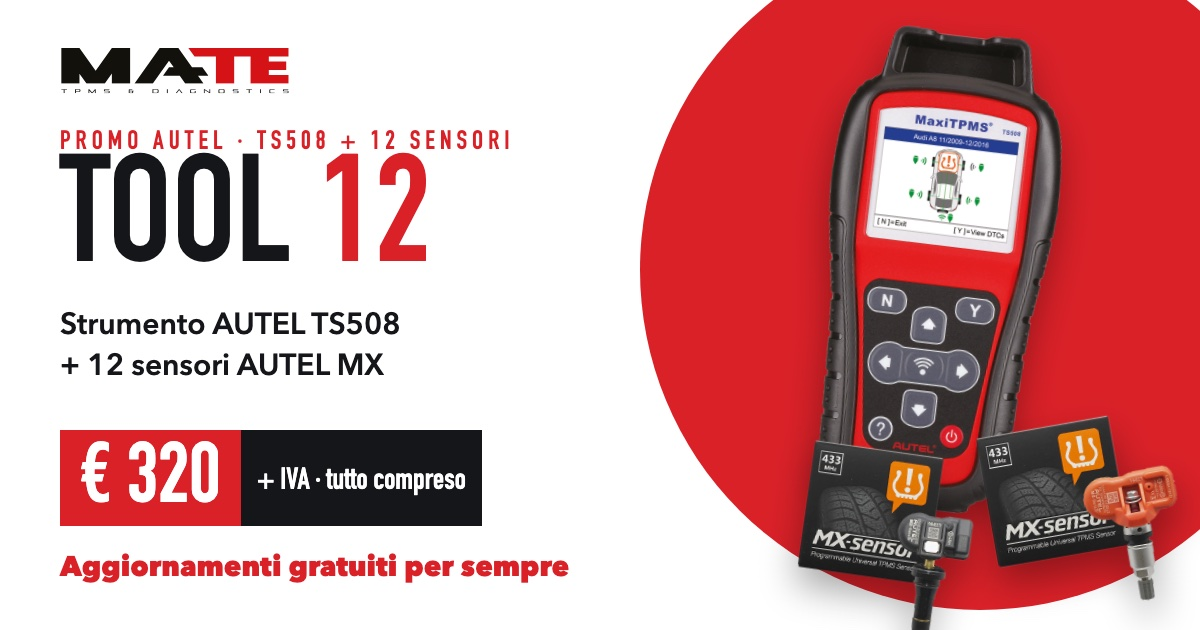
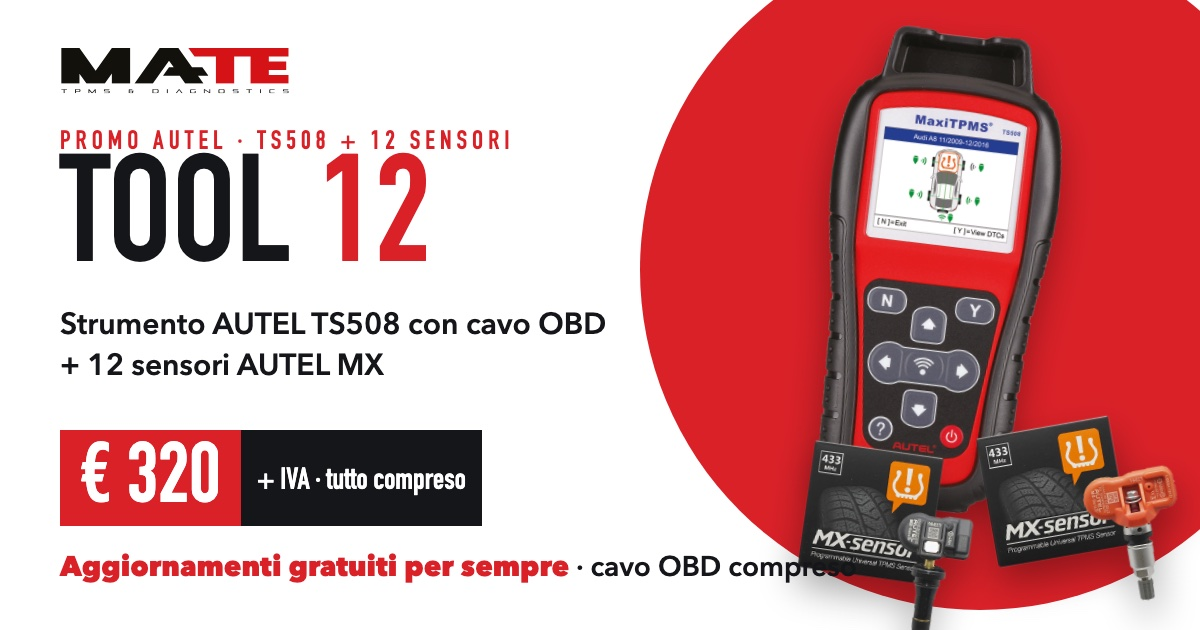
Autel Tool 12: cavo OBD compreso

Changed region(s): [[0.4933, 0.8746, 0.7092, 0.9349], [0.3392, 0.4825, 0.5242, 0.5429]]

diff --git a/autel-tool12/index.html b/autel-tool12/index.html
@@ -4,10 +4,10 @@
 <meta charset="utf-8">
 <meta name="viewport" content="width=device-width, initial-scale=1, viewport-fit=cover">
 <title>Autel Tool 12</title>
-<meta name="description" content="Promo Autel Tool 12: strumento TPMS AUTEL TS508 più 12 sensori AUTEL MX a 320 euro più IVA, tutto compreso, aggiornamenti gratuiti per sempre. Scegli le valvole e mandami l'ordine su WhatsApp.">
+<meta name="description" content="Promo Autel Tool 12: strumento TPMS AUTEL TS508 con cavo OBD più 12 sensori AUTEL MX a 320 euro più IVA, tutto compreso, aggiornamenti gratuiti per sempre. Scegli le valvole e mandami l'ordine su WhatsApp.">
 <meta property="og:type" content="website">
 <meta property="og:title" content="Autel Tool 12 · TS508 + 12 sensori MX a 320 € + IVA">
-<meta property="og:description" content="Strumento TPMS AUTEL TS508 + 12 sensori AUTEL MX: 320 € + IVA tutto compreso, aggiornamenti gratuiti per sempre. Scegli le valvole e ordina su WhatsApp.">
+<meta property="og:description" content="Strumento TPMS AUTEL TS508 con cavo OBD + 12 sensori AUTEL MX: 320 € + IVA tutto compreso, aggiornamenti gratuiti per sempre. Scegli le valvole e ordina su WhatsApp.">
 <meta property="og:image" content="https://stefanoserafin.github.io/mak-promo/autel-tool12/anteprima.jpg">
 <meta property="og:image:width" content="1200">
 <meta property="og:image:height" content="630">
@@ -177,13 +177,13 @@ footer b{color:var(--ink)}
 <div class="wrap">
 
 <div class="hero">
-  <img src="locandina.jpg" alt="Promo Autel Tool 12: strumento TS508 più 12 sensori AUTEL MX a 320 euro più IVA, tutto compreso" width="1620" height="2025">
+  <img src="locandina.jpg" alt="Promo Autel Tool 12: strumento TS508 con cavo OBD più 12 sensori AUTEL MX a 320 euro più IVA, tutto compreso" width="1620" height="2025">
 </div>
 
 
 <section>
   <div class="unico" id="salto">
-    <div class="sx"><small>Tool 12 · tutto compreso</small><p>Strumento AUTEL TS508<br>+ 12 sensori AUTEL MX</p></div>
+    <div class="sx"><small>Tool 12 · tutto compreso</small><p>Strumento AUTEL TS508<br>+ cavo OBD<br>+ 12 sensori AUTEL MX</p></div>
     <div class="dx"><b>€ 320</b><em>+ IVA</em></div>
   </div>
 </section>
@@ -192,7 +192,8 @@ footer b{color:var(--ink)}
   <h2>Perché <em>conviene</em></h2>
   <p class="sub">Tutto quello che serve per partire con il TPMS, in un solo pacchetto.</p>
   <div class="vant" id="vant">
-    <div class="va"><span class="ic">320</span><div><h3>Tutto in un prezzo</h3><p>Strumento e 12 sensori a <strong>320 € + IVA</strong>: parti con il TPMS senza altre spese.</p></div></div>
+    <div class="va"><span class="ic">320</span><div><h3>Tutto in un prezzo</h3><p>Strumento, cavo OBD e 12 sensori a <strong>320 € + IVA</strong>: parti con il TPMS senza altre spese.</p></div></div>
+    <div class="va"><span class="ic">OBD</span><div><h3>Cavo OBD compreso</h3><p>Per il <strong>riapprendimento dalla presa diagnosi</strong>: con il Tool 12 è già nella confezione.</p></div></div>
     <div class="va"><span class="ic" style="font-size:30px;padding-top:0">∞</span><div><h3>Aggiornamenti gratuiti per sempre</h3><p>Il TS508 riceve le nuove vetture e i nuovi sensori <strong>senza abbonamento e senza rinnovi</strong>, via Wi-Fi o dal computer.</p></div></div>
     <div class="va"><span class="ic">3</span><div><h3>Valvole a scelta</h3><p>Gomma, metallo silver o metallo black: <strong>le mischi come vuoi</strong>, contano i 12 in totale.</p></div></div>
     <div class="va"><span class="ic">96%</span><div><h3>Un sensore, quasi tutte le auto</h3><p>AUTEL MX è <strong>universale</strong>: copertura dichiarata del 96% delle vetture. Lo programmi con il TS508.</p></div></div>
@@ -206,6 +207,7 @@ footer b{color:var(--ink)}
   <p class="sub">Un pacchetto, un prezzo: 320 € + IVA.</p>
   <div class="conto">
     <div class="r"><span>Strumento TPMS AUTEL TS508 WF<small>cod. 9300000309 · aggiornamenti gratuiti per sempre</small></span><span></span><b>1</b></div>
+    <div class="r"><span>Cavo OBD<small>per il riapprendimento dalla presa diagnosi</small></span><span></span><b>1</b></div>
     <div class="r"><span>Sensori AUTEL MX<small>valvole a scelta, anche miste</small></span><span></span><b>12</b></div>
     <div class="r tot"><span><b style="font-size:22px;color:var(--ink)">Tool 12</b><small>tutto compreso, IVA esclusa</small></span><span></span><b>320,00 €</b></div>
   </div>
@@ -234,7 +236,7 @@ footer b{color:var(--ink)}
     </div>
     <div class="barra" id="barra"><i></i></div>
     <div class="stato" id="stato"></div>
-    <div class="totale"><span>Tool 12: TS508<br>e 12 sensori, IVA esclusa</span><b>320,00 €<i>+ IVA</i></b></div>
+    <div class="totale"><span>Tool 12: TS508, cavo OBD<br>e 12 sensori, IVA esclusa</span><b>320,00 €<i>+ IVA</i></b></div>
     <label class="f" for="officina">Officina</label>
     <input type="text" id="officina" placeholder="Nome dell'officina" autocomplete="organization">
   </div>
@@ -244,7 +246,7 @@ footer b{color:var(--ink)}
 <section>
   <h2>Da <em>sapere</em></h2>
   <ul class="sapere">
-    <li>Il TS508 fa il riapprendimento dalla presa OBDII e quello manuale, e ti mostra dove si trova la presa.</li>
+    <li>Il <b>cavo OBD è compreso</b>: il TS508 fa il riapprendimento dalla presa diagnosi e quello manuale, e ti mostra dove si trova la presa.</li>
     <li>Gli aggiornamenti sono <b>gratuiti per sempre</b>: via Wi-Fi o dal computer (anche Mac). Al primo aggiornamento registri lo strumento con la tua email.</li>
     <li>Lavora con i sensori a 315 e 433 MHz.</li>
   </ul>
@@ -319,8 +321,8 @@ document.addEventListener("DOMContentLoaded", () => {
   function messaggio() {
     const n = totale(), off = $("officina").value.trim();
     const righeS = SENSORI.map((s, i) => pz[i] ? "• " + s.cod + " AUTEL MX " + s.nome + ": " + pz[i] + " pz" : "").filter(Boolean);
-    const testo = "Ciao Stefano, vorrei l'*Autel Tool 12*: TS508 + 12 sensori AUTEL MX a 320 € + IVA\n" +
-      "• 9300000309 AUTEL TS508 WF: 1 pz\n" +
+    const testo = "Ciao Stefano, vorrei l'*Autel Tool 12*: TS508 con cavo OBD + 12 sensori AUTEL MX a 320 € + IVA\n" +
+      "• 9300000309 AUTEL TS508 WF con cavo OBD: 1 pz\n" +
       (righeS.length ? righeS.join("\n") + "\n" : "") +
       (n < PROMO.sensori ? (n ? "Gli altri " + (PROMO.sensori - n) + " sensori: decidiamo insieme le valvole\n" : "Valvole dei 12 sensori: decidiamo insieme\n") : "") +
       "Totale 320,00 € + IVA\n\nOfficina: " + off;

diff --git a/_build/anteprima-autel-tool12.html b/_build/anteprima-autel-tool12.html
@@ -24,7 +24,7 @@
 <img class="k" src="../../Locandine/autel-tool12/mx-silver.png" style="right:20px;top:420px;width:190px;transform:rotate(-10deg)">
 <img class="k" src="../../Locandine/autel-tool12/mx-rubber.png" style="right:230px;top:450px;width:170px;transform:rotate(8deg)">
 <img class="logo" src="../autel-tool12/logo-mate-nero.svg">
-<div class="txt"><div class="kk din">PROMO AUTEL · TS508 + 12 SENSORI</div><h1 class="din">Tool <span>12</span></h1><p class="s">Strumento AUTEL TS508<br>+ 12 sensori AUTEL MX</p></div>
+<div class="txt"><div class="kk din">PROMO AUTEL · TS508 + 12 SENSORI</div><h1 class="din">Tool <span>12</span></h1><p class="s">Strumento AUTEL TS508 con cavo OBD<br>+ 12 sensori AUTEL MX</p></div>
 <div class="prezzo din"><span class="val">€ 320</span><span class="det">+ IVA · tutto compreso</span></div>
-<div class="om"><b>Aggiornamenti gratuiti per sempre</b></div>
+<div class="om"><b>Aggiornamenti gratuiti per sempre</b> · cavo OBD compreso</div>
 </body></html>

diff --git a/README.md b/README.md
@@ -291,6 +291,6 @@ Rigenera: `python3 _build/build.py`
 ## autel-tool12 (Autel Tool 12: strumento AUTEL TS508 + 12 sensori AUTEL MX, 320 € + IVA, senza scadenza)
 
 - Gemella di tool8-ma41, con le stesse scelte di Stefano: solo il totale di 320 € tutto compreso, niente prezzi separati, niente Tesla, video tutorial con anteprima (https://youtu.be/u7vXaYhk6bs «Autel TPMS TS508 — Tutorial», canale di Salvatore Pepe; `video-tutorial.jpg`).
-- Fonte: B2B › Promozioni › Promozioni Tool › Autel › Tool 12 (letto il 2026-11-14, account cliente, carrello invariato): TS508 (`9300000309`) + 12 sensori universali, valvole a scelta.
+- Fonte: B2B › Promozioni › Promozioni Tool › Autel › Tool 12 (letto il 2026-11-14, account cliente, carrello invariato): TS508 (`9300000309`) + 12 sensori universali, valvole a scelta. **Cavo OBD compreso** (confermato da Stefano il 2026-11-14).
 - Vantaggi: tutto in un prezzo, **aggiornamenti gratuiti per sempre** (richiesta di Stefano), valvole miste, copertura MX dichiarata 96%, TS508 che riconosce TPMS diretto/indiretto, assistenza telefonica gratuita. Scelta delle valvole dei 12 sensori AUTEL MX (93000000MXG / 9300000MXB / 93000000MX) con blocco a 12; WhatsApp con codici e pezzi. Rimandi a refill-autel-mx e assistenza-mate.
 - Foto: TS508 e sensori MX scontornati della campagna refill-autel-mx. Locandina: `../Locandine/autel-tool12/locandina.html`. Anteprima: `_build/anteprima-autel-tool12.html`; icona: `_build/icona-autel-tool12.html`. Nessun vocale per ora.
